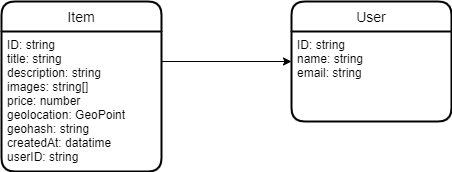
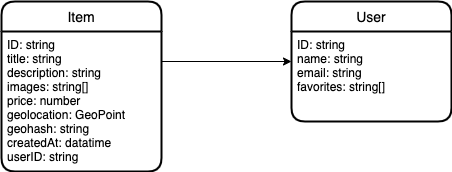
Add model info for the favorites list

diff --git a/doc/firebase/firebase.md b/doc/firebase/firebase.md
@@ -23,6 +23,10 @@ A document is very similar to JSON object, it supports arrays, nested objects, n
   - where clause
   - order by clause
 
+Useful conditions for the where clause:
+- [whereIn](https://firebase.google.com/docs/firestore/query-data/queries?hl=en#in_not-in_and_array-contains-any) for example to get all items where the id is in the user's favorite list
+- [whereArrayContains](https://firebase.google.com/docs/firestore/query-data/queries?hl=en#array_membership) for example if items have an array of tags/categories
+
 Not a relational database so we cannot do joins, we have to manually fetch the referenced documents.
 
 All queries can either
